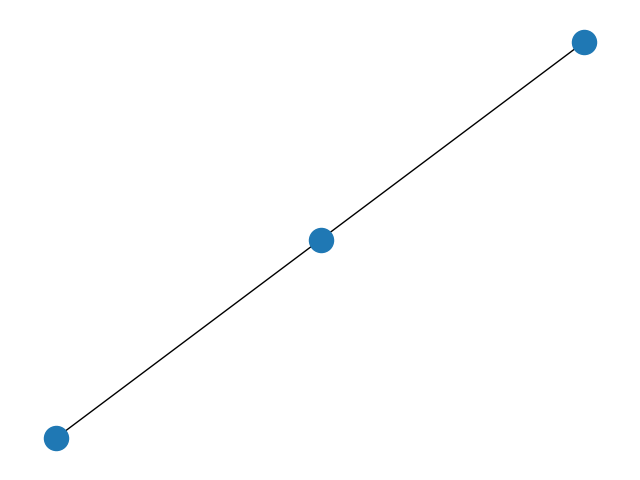
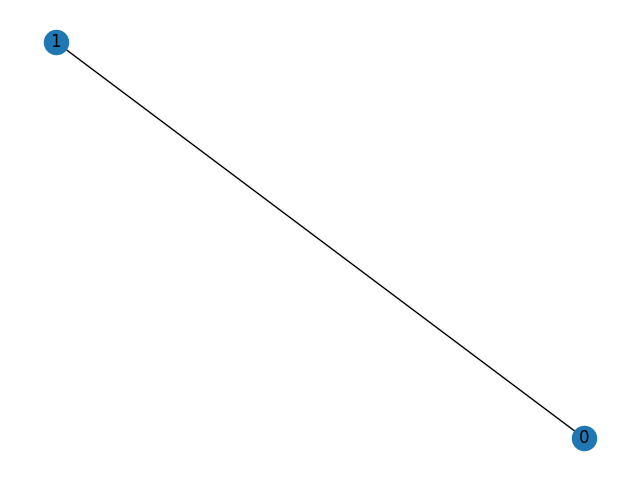
Transformation buttons update

diff --git a/tiag/main.py b/tiag/main.py
@@ -84,7 +84,7 @@ class Choice(Widget):
 
         links = parser2.assignmentParser(mainGraph, leftGraph(self.whichTransformation), self.assignement)
 
-        SPO.single_pushout(mainGraph, leftGraph(self.whichTransformation), rightGraph(self.whichTransformation), links)
+        mainGraph = SPO.single_pushout(mainGraph, leftGraph(self.whichTransformation), rightGraph(self.whichTransformation), links)
 
         nx.draw(mainGraph, with_labels=True)
         plt.savefig("maingraph.png")
@@ -123,13 +123,13 @@ class MyApp(App):
 if __name__ == '__main__':
     global graphs
     global mainGraph
-    filepath = "ex1.txt"  # nazwa ścieżki, trzeba zdecydować jak będzię ona wprowadzana
+    filepath = "ex1.txt"
 
     graphs = parserWS.creating_output_list(filepath)
     mainGraph = graphs[0]
 
     options = {
-        'node_size': 100,
+        'node_size': 100
     }
 
     nx.draw(mainGraph, with_labels=True)
@@ -137,11 +137,11 @@ if __name__ == '__main__':
 
     for i in range(1, len(graphs)):
         plt.close()
-        nx.draw(graphs[i])
+        nx.draw(graphs[i], with_labels=True)
         if i % 2 == 0:
-            plt.savefig("transformacja" + str(i-1) + ".png")
+            plt.savefig("transformacja" + str(int(i/2)) + ".png")
         else:
-            plt.savefig("transformacja" + str(i) + "L.png")
+            plt.savefig("transformacja" + str(int(i/2 + 1)) + "L.png")
 
 
     plt.close()
